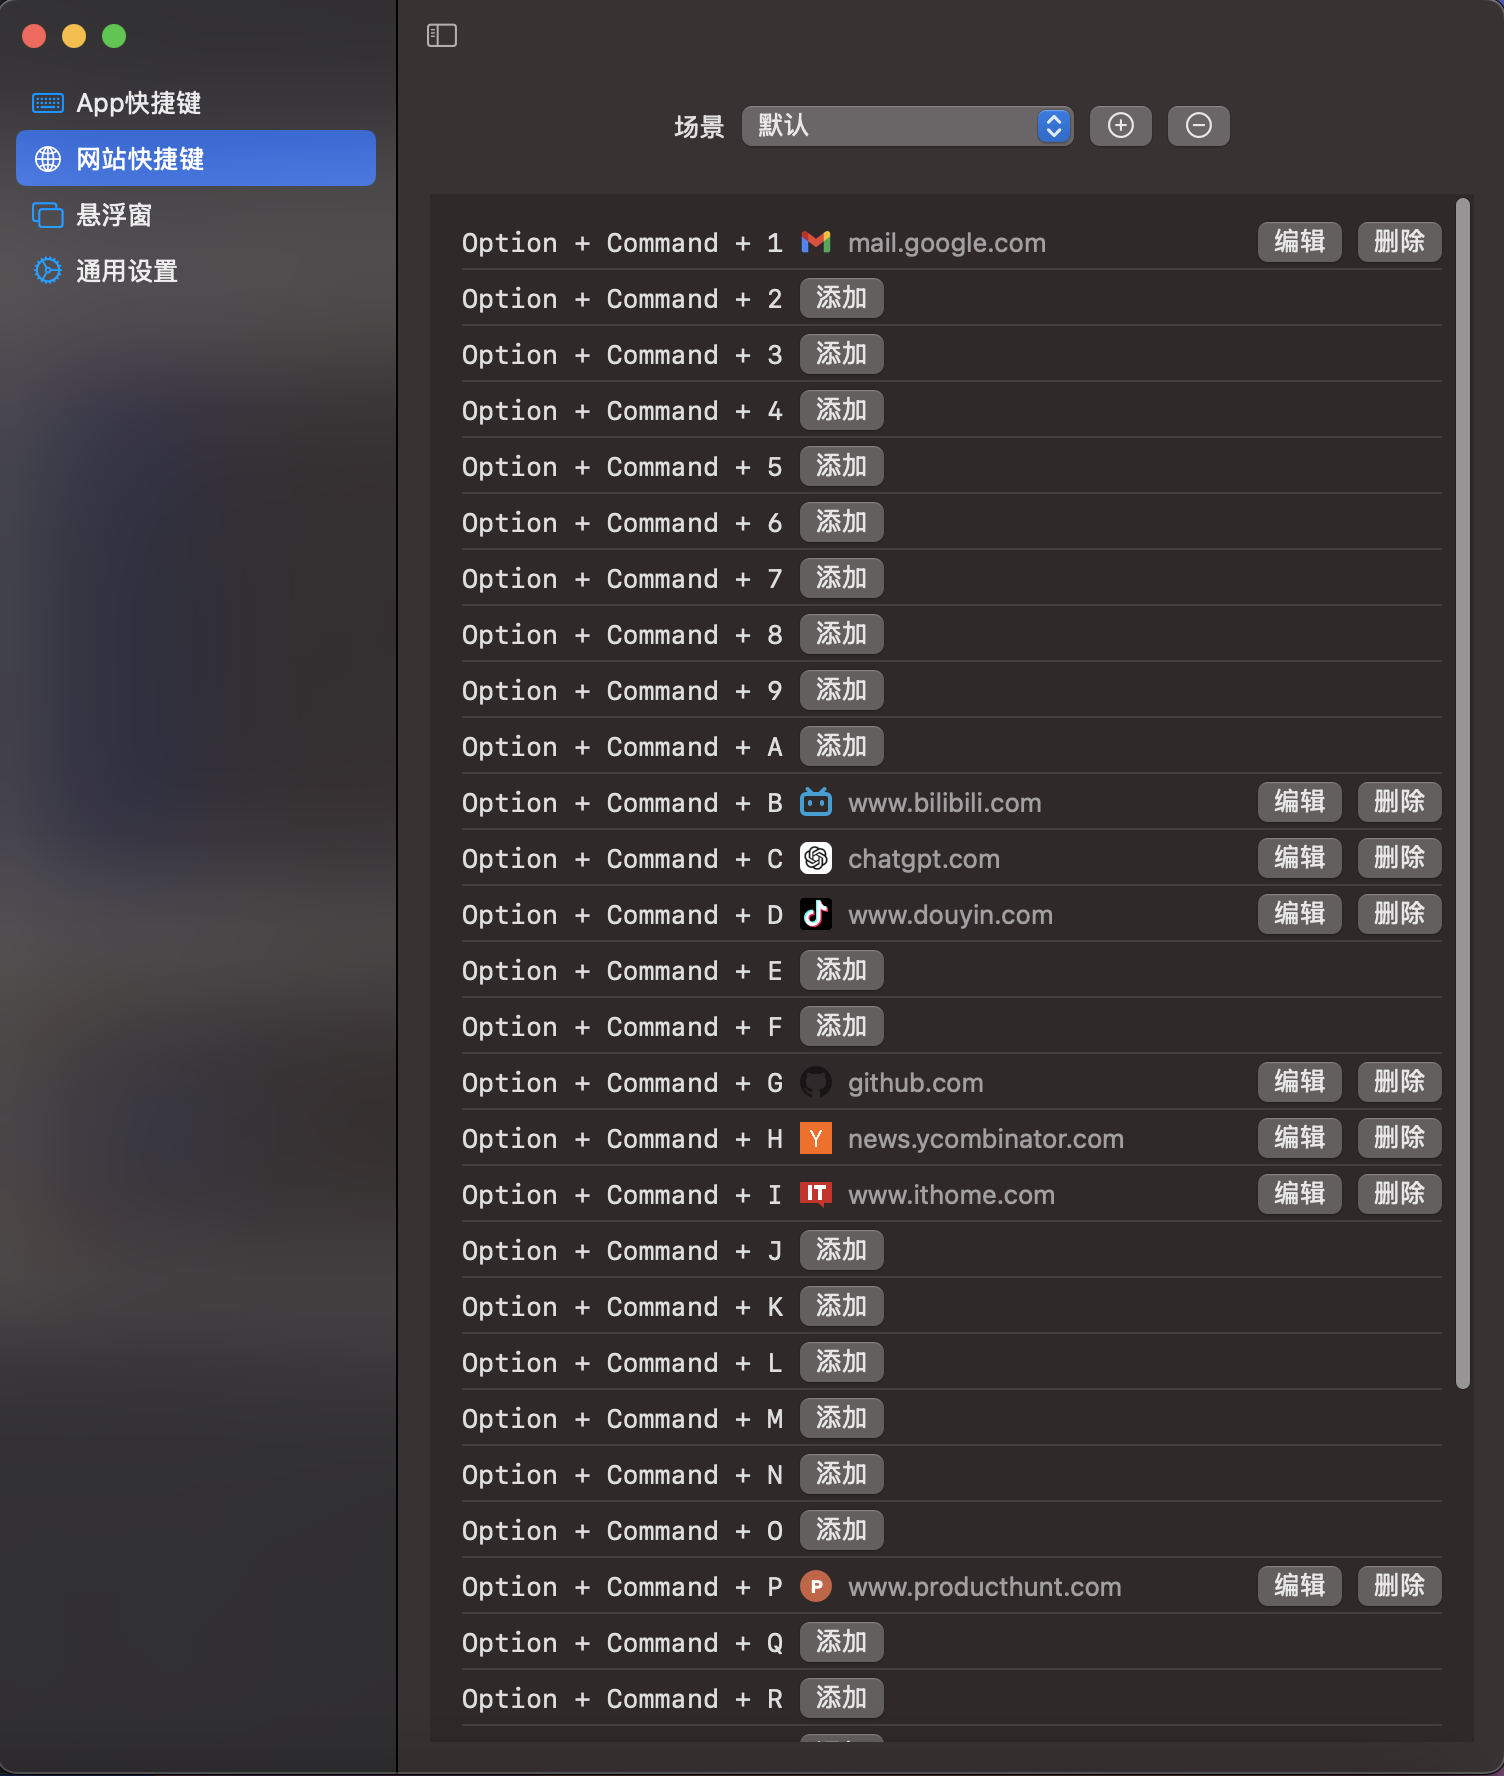
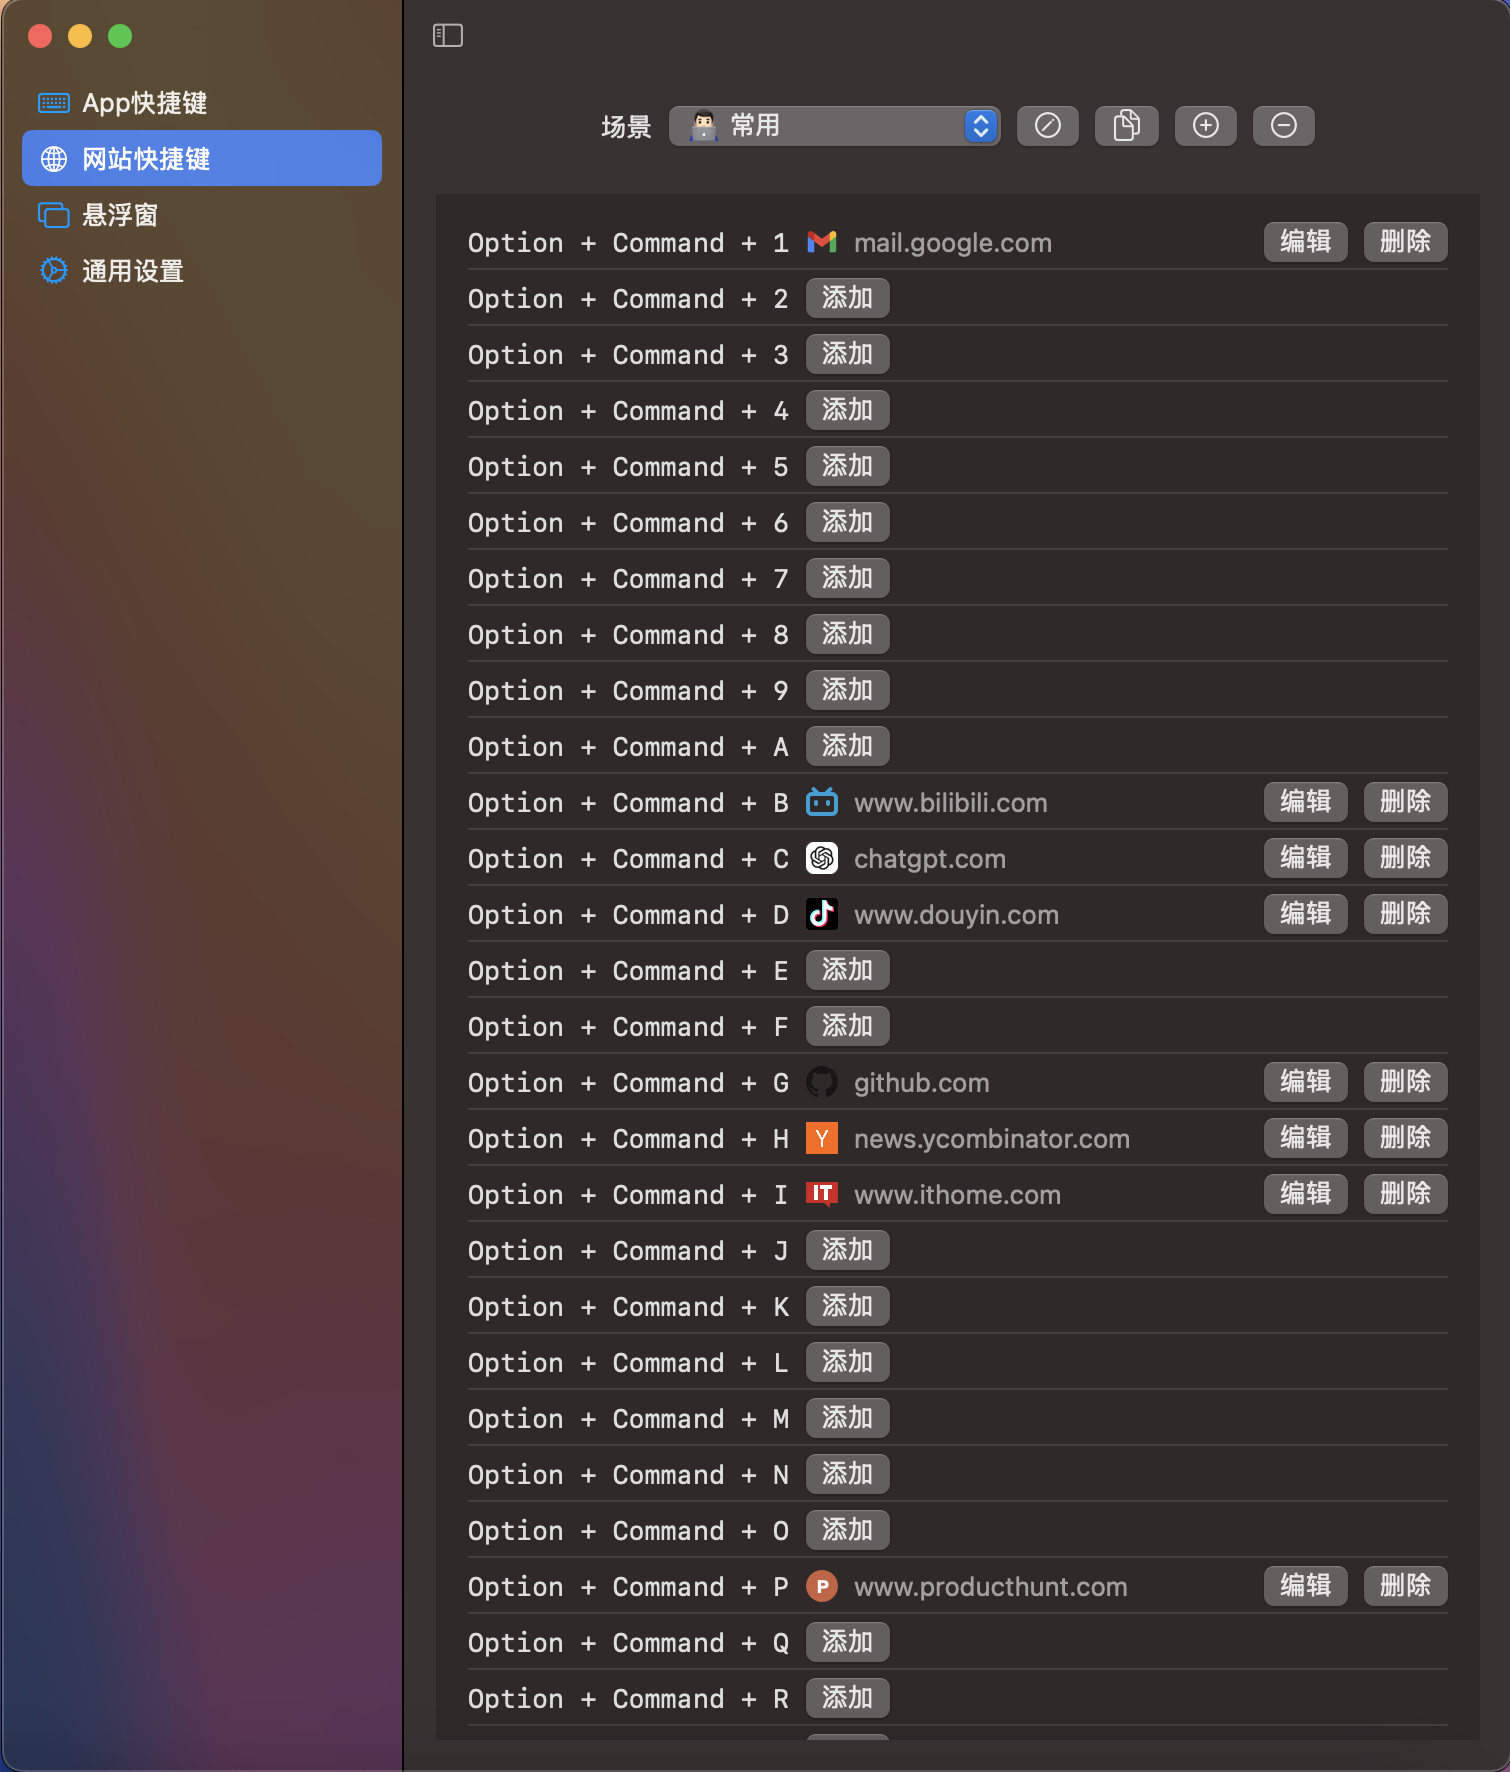
更新readme

diff --git a/README.md b/README.md
@@ -14,8 +14,8 @@ OpenManico 是一个纯 Cursor 编写的轻量级的 macOS 应用程序，通过
 ## 应用截图
 
 <div align="center">
-   <img src="Screenshots/scene.png" width="800" alt="场景配置界面">
-  <p><em>场景配置界面</em></p>
+   <img src="Screenshots/home.png" width="800" alt="场景配置界面">
+  <p><em>App配置界面</em></p>
   <img src="Screenshots/searchapp.png" width="800" alt="通用设置界面">
   <p><em>App快捷键设置界面</em></p>
   <img src="Screenshots/webset.png" width="800" alt="网站快捷键设置界面">
